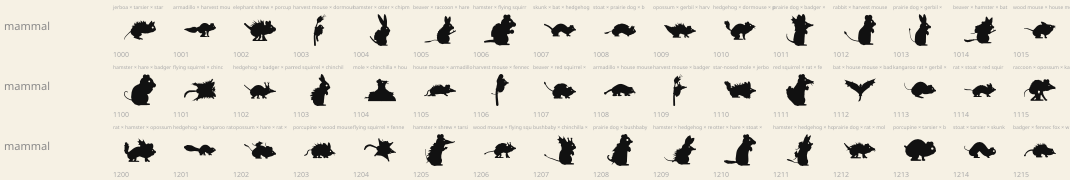
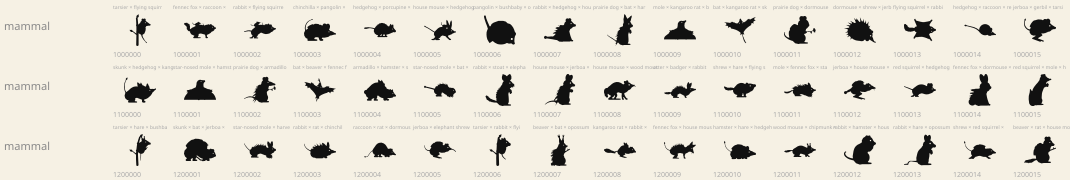
mammal: chimera fix round (molehill head only, folded lent wings, climber min body, bat head/span, thicker curly tails); pure unchanged

diff --git a/src/gen/tags/mammal.js b/src/gen/tags/mammal.js
@@ -20,6 +20,11 @@ import { chassis, heads, feet, tips, crowns, dorsals } from '../parts.js';
 const PI = Math.PI;
 const none = () => ({ type: 'none' });
 const isOwn = g => !!(g.own && g.own.chassis === g && g.own.limbs && g.own.limbs.mOwn);
+// Within-tag chimera: some slot came from a sibling species (sp() tags every gene with its
+// species, `mSp`). Pure species and cross-tag mixes are never chimeras here.
+const isChim = g => { const G = g.own; return !!(G && g.mSp && ['head', 'crown', 'dorsal', 'tail', 'limbs'].some(s => G[s]?.mSp && G[s].mSp !== g.mSp)); };
+// Chimeras: a thin curly tail goes hairline at print size, so thicken its base (tail drawn after chassis).
+const chimTail = g => { const G = g.own, T = G.tail; if (T && T.type !== 'mammalScaleTail' && (T.curl ?? 0) > 1 && (T.w0 ?? 1) < 0.3) G.tail = { ...T, w0: 0.3, w1: Math.max(T.w1 ?? 0, 0.1) }; };
 
 function strip(path, rad, t0, t1, n, sideSign, k = 0.85) {
   const out = [];
@@ -232,7 +237,7 @@ chassis.mammalBat = (C, g) => {
   const F = frame([0, 0], g.bank ?? 0, 1, 1), FP = p => F(p[0], p[1]);
   const body = []; for (let i = 0; i < 22; i++) { const a = i / 22 * 2 * PI; body.push(F(bw * Math.cos(a) * (1 - 0.15 * Math.sin(a)), bh * Math.sin(a))); }
   ink.poly(body);
-  const ua = r * g.arm, fa = r * g.arm * 1.2, fl = r * g.finger, back = [];
+  const chim = isChim(g), span = chim ? 0.78 : 1, ua = r * g.arm * span, fa = r * g.arm * 1.2 * span, fl = r * g.finger * span, back = [];
   // one outline per wing: arm leading edge to the wrist, then finger tips joined by deep scallops
   for (const sd of [-1, 1]) {
     const el = g.elev + sd * (g.skew ?? 0);
@@ -263,7 +268,7 @@ chassis.mammalBat = (C, g) => {
   const limbs = own ? [] : [-1, 1].map(sd => ({ p: F(sd * bw * 0.4, bh * 0.8), dir: up + PI - sd * 0.5, s: r * 0.6, role: 'hind', fwd: up, side: sd }));
   return {
     view: 'top', mBat: true, r, path, rad: () => bw * 0.8,
-    head: { p: F(0, -bh * 0.8), dir: up, face: up, s: r * g.headS, sym: true },
+    head: { p: F(0, -bh * 0.8), dir: up, face: up, s: r * (chim ? Math.max(g.headS, 0.85) : g.headS), sym: true },
     tail: { p: F(0, bh * 0.9), dir: up + PI, s: r * 0.3 },
     limbs, back,
   };
@@ -302,7 +307,7 @@ chassis.mammalGlide = (C, g) => {
 
 // Clinging to an upright stalk or branch (harvest mouse on an ear of grass, tarsier on a sapling).
 chassis.mammalClimb = (C, g) => {
-  const { ink, rng } = C, own = isOwn(g), r = g.r * C.plump, Ht = g.stalkH, sr = Math.max(g.stalkR, 0.7);
+  const { ink, rng } = C, own = isOwn(g), chim = isChim(g), Ht = chim ? Math.min(g.stalkH, 60) : g.stalkH, r = chim ? Math.max(g.r * C.plump, Ht * 0.12) : g.r * C.plump, sr = Math.max(g.stalkR, 0.7);
   const bx = g.bendX * Ht;
   const sPath = spline([[0, 0], [-bx * 0.15, -Ht * 0.4], [bx * 0.25, -Ht * 0.75], [bx, -Ht]], 8);
   ink.poly(tube(sPath, profile([[0, sr * 1.25], [0.6, sr], [1, sr * (g.top === 'branch' ? 0.85 : 0.6)]])));
@@ -323,7 +328,7 @@ chassis.mammalClimb = (C, g) => {
     ink.poly(leaf(topE.p, topE.ang + 0.5, r * 1.3, r * 0.65, 0, 0.45));
   }
   const Q = pathAt(sPath, g.at), ta = Q.ang, ra = ta + PI / 2; // ra: toward +x side of the stalk
-  const len = g.len, off = sr + r * (g.hug ?? 0.78);
+  const len = chim ? Math.max(g.len, r * 1.5) : g.len, off = sr + r * (g.hug ?? 0.78);
   const mk = (along, out) => polar(polar(Q.p, ta, along), ra, out);
   const rump = mk(-len / 2, off), shd = mk(len / 2, off * (g.shOff ?? 0.9));
   const neckA = ta + (g.turn ?? 0.5), neckEnd = polar(shd, neckA, r * 0.55);
@@ -376,7 +381,9 @@ chassis.mammalFloat = (C, g) => {
 
 // Mole surfacing from a molehill.
 chassis.mammalHill = (C, g) => {
-  const { ink, rng } = C, own = isOwn(g), r = g.r * C.plump, W = g.w, Hm = g.hm;
+  const { ink, rng } = C, own = isOwn(g), chim = isChim(g), r = g.r * C.plump, W = g.w, Hm = g.hm;
+  // chimera: only a small head pokes out (no lent tail, ears or back parts: they made a castle)
+  if (chim) g.own.tail = none();
   const ph = rng.range(0, 6), mound = [];
   for (let i = 0; i <= 30; i++) { const a = PI + i / 30 * PI; mound.push([Math.cos(a) * W / 2, Math.sin(a) * Hm * (1 + 0.07 * Math.sin(a * 7 + ph)) * Math.pow(Math.abs(Math.sin(a)), -0.25 + 0.25)]); }
   ink.poly(mound);
@@ -394,11 +401,18 @@ chassis.mammalHill = (C, g) => {
   const back = []; for (let i = 0; i < 8; i++) { const a = PI + 0.25 + i / 7 * 0.75, p = [Math.cos(a) * W / 2 * 0.9, Math.sin(a) * Hm * 0.9]; back.push({ p, dir: a, t: i / 7 }); }
   return {
     view: 'side', r, path, rad,
-    head: { p: top, dir: -PI / 2 + g.lean * 0.6 + 0.15, face: g.face ?? -0.55, s: r * g.headS, sym: false },
+    head: { p: top, dir: -PI / 2 + g.lean * 0.6 + 0.15, face: g.face ?? -0.55, s: r * (chim ? Math.min(g.headS, 0.8) : g.headS), sym: false },
     tail: { p: [-W * 0.3, -Hm * 0.35], dir: PI + 0.3, s: r * 0.35 },
-    limbs, back: [back],
+    limbs, back: chim ? [] : [back],
   };
 };
+
+// Chimera hooks on every mammal chassis: thicker curly tails, and plan.mChim / plan.mType so
+// lent parts can adapt (pure species never pass isChim, so they are untouched).
+for (const k of Object.keys(chassis).filter(k => k.startsWith('mammal'))) {
+  const f = chassis[k];
+  chassis[k] = (C, g) => { const ch = isChim(g); if (!ch) return f(C, g); chimTail(g); const p = f(C, g); p.mChim = true; p.mType = k; return p; };
+}
 
 // =====================================================================
 // HEAD
@@ -439,6 +453,7 @@ heads.mammalHead = (C, sock, g) => {
 // EARS
 // =====================================================================
 crowns.mammalEar = (C, m, F0, s, g) => {
+  if (C.plan.mChim && C.plan.mType === 'mammalHill') return;
   // a cap or other single top mount gets no paired copy: splay a pair of ears from it
   if (C.head?.tag !== 'mammal' && C.plan.rooted && !m.far && !m.split) {
     for (const sd of [-1, 1]) crowns.mammalEar(C, { ...m, split: true, p: polar(m.p, m.dir + PI / 2, sd * s * 0.75), dir: m.dir + sd * 0.5, flip: sd }, F0, s * 0.9, g);
@@ -596,16 +611,18 @@ dorsals.mammalBatWing = (C, plan, st, sd, si, g) => {
   // Chimeras: bat wings dominated the dorsal slot (every winged body read as a gremlin), so a
   // lent wing only shows on about 2 in 5 bodies, and a little smaller.
   if (C.rng.chance(0.6)) return;
-  const { ink } = C, r = clamp(plan.r, 6.5, 10), k = samp(st, g.at ?? 0.7), s = r * g.size * 0.82;
+  // chimeras: spread spiky membranes on a sitting / curled body read as a dragon; none there
+  if (plan.mChim && (plan.mType === 'mammalUp' || plan.mType === 'mammalBall')) return;
+  const { ink } = C, r = clamp(plan.r, 6.5, 10), k = samp(st, g.at ?? 0.7), s = r * g.size * 0.82 * (plan.mChim ? 0.75 : 1);
   const base = polar(k.p, k.dir, -plan.r * 0.3);
   const wings = side ? [[1, 0.85, 0.3], [0, 1, 0]] : [[0, 1, 0]];
   for (const [far, ks, da] of wings) {
     // local frame: x along the arm (outward), y toward the trailing edge (backward / down)
     const a0 = side ? -PI / 2 - 0.3 + da : k.dir - sd * 0.25;
     const F = frame(base, a0, s * ks, sd);
-    const E = [0.3, -0.06], W = [0.62, -0.1], nf = g.nf ?? 4, tipsP = [], fan = clamp(g.fan ?? 1.4, 1.3, 1.5);
+    const E = [0.3, -0.06], W = [0.62, -0.1], nf = g.nf ?? 4, tipsP = [], fan = plan.mChim ? 0.9 : clamp(g.fan ?? 1.4, 1.3, 1.5); // chimeras: half-folded
     for (let i = 0; i < nf; i++) { const a = 0.55 + i * fan / (nf - 1), len = 0.7 * (1 - 0.12 * i); tipsP.push(polar(W, a, len)); }
-    const sc = Math.min(g.scallop ?? 0.45, 0.45), root = [0.0, 0.4];
+    const sc = plan.mChim ? 0.12 : Math.min(g.scallop ?? 0.45, 0.45), root = [0.0, 0.4];
     const mem = [[0, -0.06], E, W, tipsP[0]];
     for (let i = 0; i < nf - 1; i++) mem.push(...bez(tipsP[i], lerp(lerp(tipsP[i], tipsP[i + 1], 0.5), W, sc), tipsP[i + 1]), tipsP[i + 1]);
     mem.push(...bez(tipsP[nf - 1], lerp(lerp(tipsP[nf - 1], root, 0.5), [0.15, 0.1], sc), root), root);
@@ -657,7 +674,7 @@ const stand = (r, B, o = {}) => ({
   headS: B.headS / 0.92, arms: 'hang', legW: B.legW ?? 0.3, footL: B.sitFoot ?? 0.8, hunch: r.range(-0.05, 0.1), face: r.range(-0.25, 0.1), thigh: 0.7, ...o,
 });
 const ball = (r, B, o = {}) => ({ type: 'mammalBall', r: B.r * 1.25, wide: r.range(1.08, 1.22), headS: B.headS / 1.25 * 0.95, ...o });
-const sp = (name, w, fn, hybrid) => ({ name, w, ...(hybrid ? { hybrid } : {}), genes: r => { const G = fn(r); G.limbs ??= limbs(); G.dorsal ??= none(); G.crown ??= none(); G.tail ??= none(); G.surface ??= { eyes: 'dot' }; Object.defineProperty(G.chassis, 'own', { value: G, enumerable: false }); return G; } });
+const sp = (name, w, fn, hybrid) => ({ name, w, ...(hybrid ? { hybrid } : {}), genes: r => { const G = fn(r); G.limbs ??= limbs(); G.dorsal ??= none(); G.crown ??= none(); G.tail ??= none(); G.surface ??= { eyes: 'dot' }; Object.defineProperty(G.chassis, 'own', { value: G, enumerable: false }); for (const k of Object.keys(G)) if (G[k] && typeof G[k] === 'object') Object.defineProperty(G[k], 'mSp', { value: name, enumerable: false, configurable: true }); return G; } });
 
 // =====================================================================
 // SPECIES

diff --git a/docs/tags/mammal.md b/docs/tags/mammal.md
@@ -27,6 +27,17 @@ cottontail), whiskered pointed snouts, hedgehog and porcupine spines, bat wings.
 eyes: a small white dot.
 
 ## State
+**Chimera fix round (2026-11-14), critic's cell-60 findings; pure species pixel-identical (checked):**
+- `sp()` tags every gene with its species (non-enumerable `mSp`); `isChim(g)` is true only when a
+  mammal sibling supplied a slot. All mammal chassis are wrapped: on chimeras they set
+  `plan.mChim` / `plan.mType` and thicken thin curly tails (w0 >= 0.3).
+- Molehill chimera: no tail, ears or dorsal; head capped at 0.8 (small head poking out).
+- Lent bat wing on chimeras: none on sitting/curled bodies; elsewhere 25% smaller, half folded
+  (fan 0.9), shallow scallops (no spiky trailing edge).
+- Stalk climber chimera: stalk <= 60, body r >= 0.12 stalk, body length >= 1.5 r.
+- Bat chimera: span 0.78, head >= 0.85 r so a borrowed head shows.
+- Still weak: winged walkers read as hunched lumps rather than bats; bat chimera heads still small at cell 60.
+
 **M8 phase 2 chimeras (2026-11-14), judged on 48 seeds at hybrid 1, cell 60/110:**
 - Chimeras mostly hold together: sitters, walkers, stalk climbers, gliders, bats and molehills
   all appear as chassis; no one chassis dominates.
